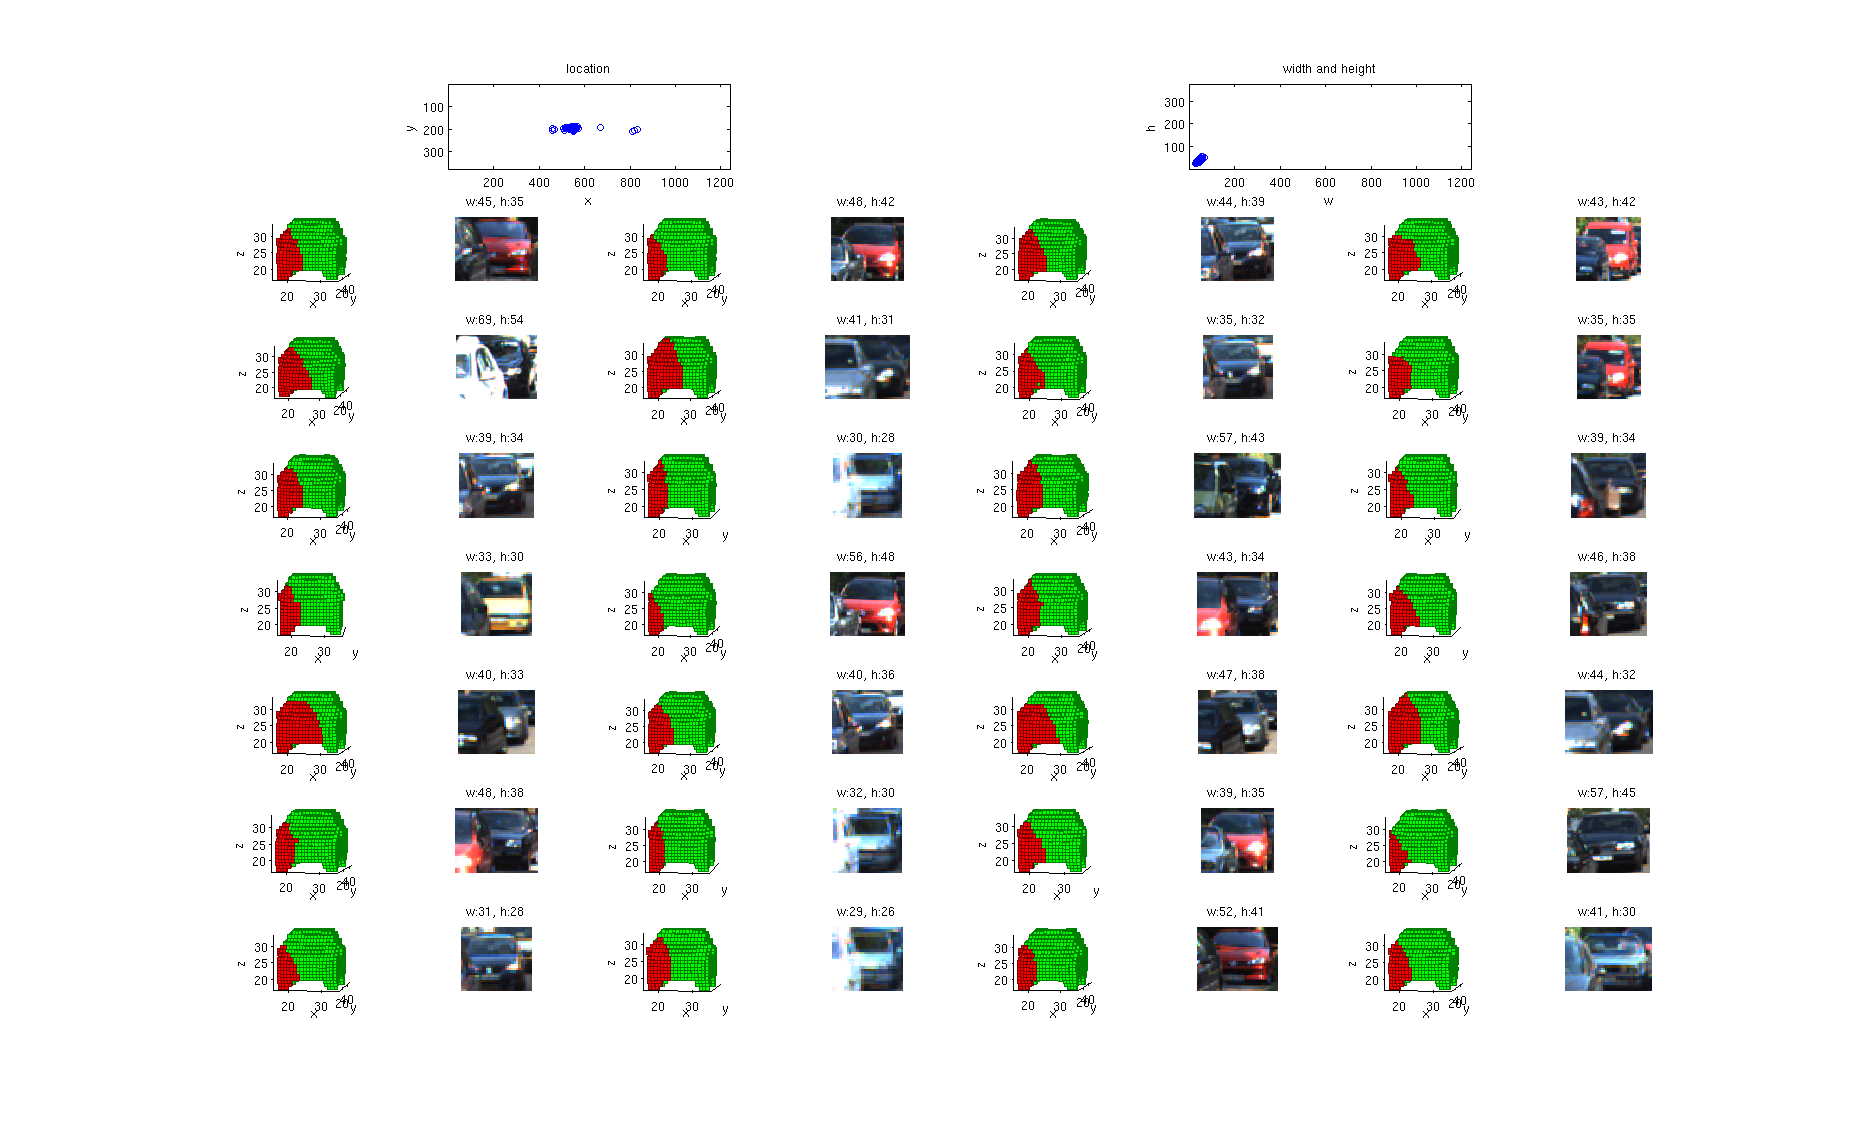
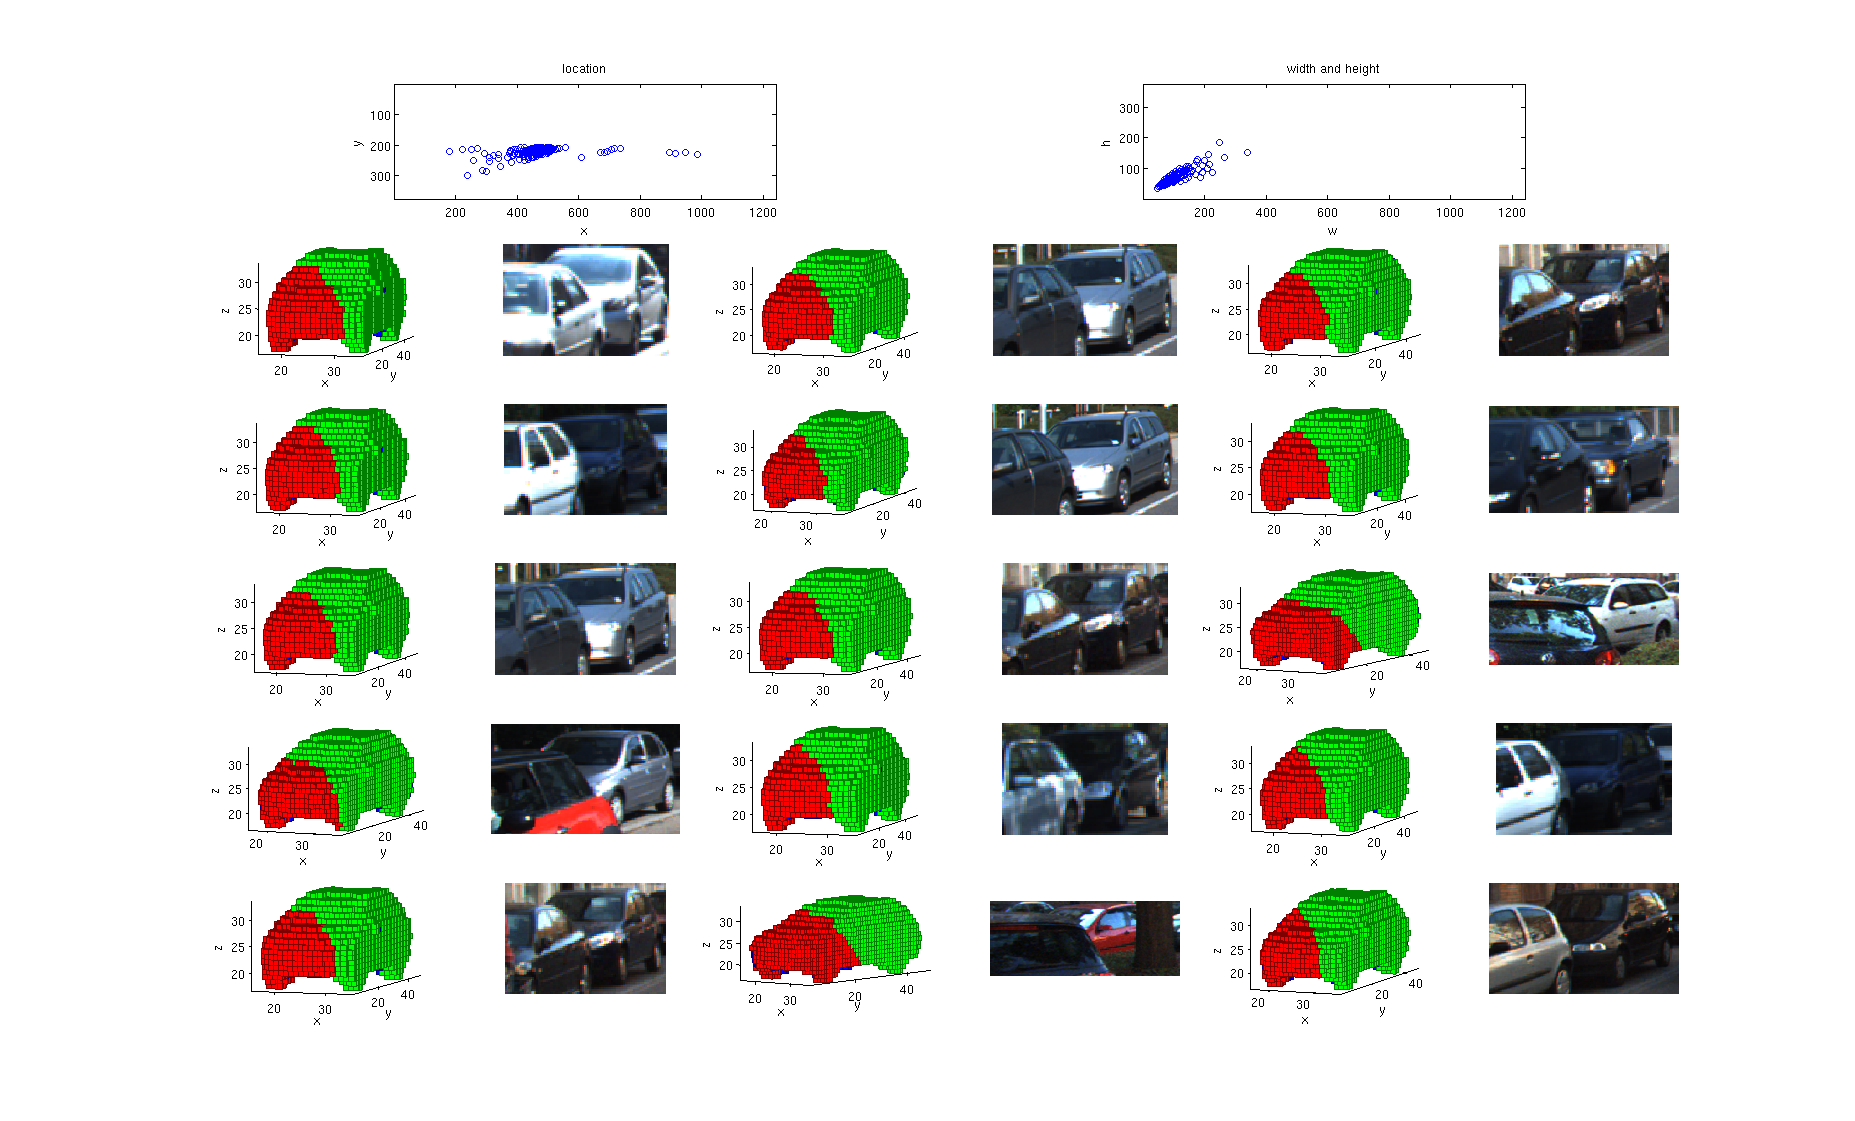
some new figures

Changed region(s): [[0.1229, 0.4996, 0.9218, 0.9054], [0.5224, 0.1249, 0.9218, 0.4683], [0.1229, 0.1249, 0.4916, 0.4683]]

diff --git a/ACF/exemplar_display_result_kitti_bbox.m b/ACF/exemplar_display_result_kitti_bbox.m
@@ -1,0 +1,174 @@
+function exemplar_display_result_kitti_bbox
+
+cls = 'car';
+threshold = -20;
+is_save = 0;
+threshold_overlap = 0.6;
+is_train = 0;
+result_dir = 'kitti_test_acf_3d_227_flip';
+name = '3d_ap_227_combined';
+% is_train = 1;
+% result_dir = 'kitti_train_ap_125';
+% name = '3d_aps_125_combined';
+
+% read detection results
+filename = sprintf('%s/%s_%s_test.mat', result_dir, cls, name);
+object = load(filename);
+dets = object.dets;
+fprintf('load detection done\n');
+
+% read ids of validation images
+object = load('kitti_ids_new.mat');
+if is_train
+    ids = object.ids_val;
+else
+    ids = object.ids_test;
+end
+N = numel(ids);
+
+% KITTI path
+exemplar_globals;
+root_dir = KITTIroot;
+if is_train
+    data_set = 'training';
+else
+    data_set = 'testing';
+end
+cam = 2;
+image_dir = fullfile(root_dir, [data_set '/image_' num2str(cam)]);
+label_dir = fullfile(root_dir, [data_set '/label_' num2str(cam)]);
+
+% load data
+if is_train
+    filename = fullfile(SLMroot, 'KITTI/data.mat');
+else
+    filename = fullfile(SLMroot, 'KITTI/data_kitti.mat');
+end
+object = load(filename);
+data = object.data;
+
+figure;
+for i = 322:N
+    img_idx = ids(i);
+    disp(img_idx);
+    
+    % read ground truth bounding box
+    if is_train
+        objects = readLabels(label_dir, img_idx);
+        clsinds = strmatch(cls, lower({objects(:).type}), 'exact');
+        n = numel(clsinds);
+        bbox_gt = zeros(n, 4); 
+        for j = 1:n
+            bbox_gt(j,:) = [objects(clsinds(j)).x1 objects(clsinds(j)).y1 ...
+                objects(clsinds(j)).x2 objects(clsinds(j)).y2];     
+        end
+        flags_gt = zeros(n, 1);
+    end
+    
+    % get predicted bounding box
+    det = dets{i};
+    if isempty(det) == 1
+        fprintf('no detection for image %d\n', img_idx);
+        continue;
+    end
+    if max(det(:,6)) < threshold
+        fprintf('maximum score %.2f is smaller than threshold\n', max(det(:,6)));
+        continue;
+    end
+    if isempty(det) == 0
+        I = nms_new(det, threshold_overlap);
+        det = det(I, :);    
+    end
+    num = size(det, 1);
+    
+    % for each predicted bounding box
+    if is_train
+        flags_pr = zeros(num, 1);
+        for j = 1:num
+            bbox_pr = det(j, 1:4);  
+
+            % compute box overlap
+            if isempty(bbox_gt) == 0
+                o = boxoverlap(bbox_gt, bbox_pr);
+                [maxo, index] = max(o);
+                if maxo >= 0.7 && flags_gt(index) == 0
+                    flags_pr(j) = 1;
+                    flags_gt(index) = 1;
+                end
+            end
+        end
+    end
+    
+    file_img = sprintf('%s/%06d.png', image_dir, img_idx);
+    I = imread(file_img);
+    
+    % show all the detections
+%     figure(1);
+%     imshow(I);
+%     hold on;
+%     
+%     for k = 1:size(dets{i},1)
+%         bbox_pr = dets{i}(k,1:4);
+%         bbox_draw = [bbox_pr(1), bbox_pr(2), bbox_pr(3)-bbox_pr(1), bbox_pr(4)-bbox_pr(2)];
+%         rectangle('Position', bbox_draw, 'EdgeColor', 'g', 'LineWidth', 2);
+%     end
+%     hold off;
+    
+    imshow(I);
+    hold on;
+    for k = 1:num
+        if det(k,6) > threshold
+            % get predicted bounding box
+            bbox_pr = det(k,1:4);
+            bbox_draw = [bbox_pr(1), bbox_pr(2), bbox_pr(3)-bbox_pr(1), bbox_pr(4)-bbox_pr(2)];
+            if is_train
+                if flags_pr(k)
+                    rectangle('Position', bbox_draw, 'EdgeColor', 'g', 'LineWidth', 2);
+                else
+                    rectangle('Position', bbox_draw, 'EdgeColor', 'r', 'LineWidth', 2);
+                end
+            else
+                rectangle('Position', bbox_draw, 'EdgeColor', 'g', 'LineWidth', 2);
+            end
+%             s = sprintf('%.2f', det(k,6));
+%             text(bbox_pr(1), bbox_pr(2), s, 'FontSize', 4, 'BackgroundColor', 'c');
+        end
+    end
+    
+    if is_train
+        for k = 1:n
+            if flags_gt(k) == 0
+                bbox = bbox_gt(k,1:4);
+                bbox_draw = [bbox(1), bbox(2), bbox(3)-bbox(1), bbox(4)-bbox(2)];
+                rectangle('Position', bbox_draw, 'EdgeColor', 'y', 'LineWidth', 2);
+            end
+        end
+    end
+    hold off;
+    
+    if is_save
+        filename = fullfile('result_images', sprintf('%06d.png', img_idx));
+        saveas(hf, filename);
+    else
+        pause;
+    end
+end
+
+
+function im = create_occlusion_image(pattern)
+
+% 2D occlusion mask
+im = 255*ones(size(pattern,1), size(pattern,2), 3);
+color = [0 0 255];
+for j = 1:3
+    tmp = im(:,:,j);
+    tmp(pattern == 2) = color(j);
+    im(:,:,j) = tmp;
+end
+color = [0 255 255];
+for j = 1:3
+    tmp = im(:,:,j);
+    tmp(pattern == 3) = color(j);
+    im(:,:,j) = tmp;
+end
+im = uint8(im);  

diff --git a/KITTI/show_cluster_patterns.m b/KITTI/show_cluster_patterns.m
@@ -1,5 +1,7 @@
 function show_cluster_patterns(cid)
 
+is_save = 0;
+
 opt = globals;
 
 % get image directory
@@ -33,9 +35,10 @@ N = numel(centers);
 % [~, ind] = sort(azimuth);
 % centers = centers(ind);
 
-figure;
-nplot = 8;
-mplot = 8;
+% hf = figure('units','normalized','outerposition',[0 0 0.5 1]);
+hf = figure;
+nplot = 5;
+mplot = 6;
 for i = 1:N
     disp(i);
     ind = centers(i);
@@ -88,8 +91,8 @@ for i = 1:N
     subplot(nplot, mplot, ind_plot);
     ind_plot = ind_plot + 1;
     imshow(I1);
-    til = sprintf('w:%d, h:%d', size(I1,2), size(I1,1));
-    title(til);
+%     til = sprintf('w:%d, h:%d', size(I1,2), size(I1,1));
+%     title(til);
     
     % show several members
     member = find(idx == ind);
@@ -118,13 +121,18 @@ for i = 1:N
         subplot(nplot, mplot, ind_plot);
         ind_plot = ind_plot + 1;
         imshow(I1);
-        til = sprintf('w:%d, h:%d', size(I1,2), size(I1,1));
-        title(til);        
+%         til = sprintf('w:%d, h:%d', size(I1,2), size(I1,1));
+%         title(til);        
     end
     for j = ind_plot:nplot*mplot
         subplot(nplot, mplot, j);
         cla;
         title('');
     end
-    pause;
+    if is_save
+        filename = sprintf('Clusters/%03d.png', i);
+        saveas(hf, filename);
+    else
+        pause;
+    end
 end

diff --git a/KITTI/show_exemplar_dpms.m b/KITTI/show_exemplar_dpms.m
@@ -14,7 +14,7 @@ cad = object.(cls);
 index = cad.grid == 1;
 
 % cluster centers
-files = dir('../Exemplar_DPM/kitti_train/*final*');
+files = dir('../Exemplar_DPM/kitti_train_ap_125/*final*');
 N = numel(files);
 centers = zeros(1, N);
 for i = 1:N
@@ -41,11 +41,11 @@ for i = 1:N
     ind_plot = ind_plot + 1;
     draw_cad(cad, visibility_grid);
     view(data.azimuth(ind), data.elevation(ind));
-    til = sprintf('%d: trunc %.2f', ind, data.truncation(ind));
-    title(til);
+%     til = sprintf('%d: trunc %.2f', ind, data.truncation(ind));
+%     title(til);
     
     % show exemplar DPM
-    filename = sprintf('../Exemplar_DPM/kitti_train/%s_%d_final.mat', cls, ind);
+    filename = sprintf('../Exemplar_DPM/kitti_train_ap_125/%s_%d_final.mat', cls, ind);
     if exist(filename, 'file')
         object = load(filename);
         model = object.model;

diff --git a/KITTI/show_annotations.m b/KITTI/show_annotations.m
@@ -53,7 +53,7 @@ for img_idx = 1:nimages-1
     obj_idx = index(i);
     % plot 2D bounding box
     object = objects(obj_idx);
-    draw_2d_box(object);
+%     draw_2d_box(object);
     
     if strcmp(object.type, 'Car') == 1
         cad_index = find_closest_cad(cads, object);
@@ -96,9 +96,9 @@ for img_idx = 1:nimages-1
   axis off;  
   axis equal;
   
-  if isempty(V) == 0
-      pause(1);
-      render_cad_model(V, F);
-  end
+%   if isempty(V) == 0
+%       pause(1);
+%       render_cad_model(V, F);
+%   end
   pause;
 end

diff --git a/ACF/exemplar_display_result_kitti.m b/ACF/exemplar_display_result_kitti.m
@@ -4,12 +4,12 @@ cls = 'car';
 threshold = -20;
 is_save = 0;
 threshold_overlap = 0.6;
-% is_train = 0;
-% result_dir = 'kitti_test_acf_3d_227_flip';
-% name = '3d_ap_227_combined';
-is_train = 1;
-result_dir = 'kitti_train_ap_125';
-name = '3d_aps_125_combined';
+is_train = 0;
+result_dir = 'kitti_test_acf_3d_227_flip';
+name = '3d_ap_227_combined';
+% is_train = 1;
+% result_dir = 'kitti_train_ap_125';
+% name = '3d_aps_125_combined';
 
 % read detection results
 filename = sprintf('%s/%s_%s_test.mat', result_dir, cls, name);

diff --git a/KITTI/show_occlusion_patterns.m b/KITTI/show_occlusion_patterns.m
@@ -34,7 +34,7 @@ for i = 1:N
     
     for j = 1:numel(objects)
         object = objects(j);
-        if strcmp(object.type, 'Car') == 1 && object.occ_per > 0.1 && object.trunc_per > 0.1
+        if strcmp(object.type, 'Car') == 1 && object.occ_per > 0.1 % object.occ_per > 0.1 &&
             
             % show the image patch
             filename = sprintf('%s/%06d.png',image_dir, i - 1);

diff --git a/KITTI/show_cluster_centers.m b/KITTI/show_cluster_centers.m
@@ -38,7 +38,7 @@ for i = 1:N
     view(data.azimuth(ind), data.elevation(ind));
     num = numel(find(idx == ind));
     til = sprintf('%d: trunc %.2f, %d examples', ind, data.truncation(ind), num);
-    title(til);
+%     title(til);
     
     % show exemplar DPM
 %     filename = sprintf('../Exemplar_DPM/kitti_train/%s_%d_final.mat', cls, ind);

diff --git a/ACF/exemplar_globals.m b/ACF/exemplar_globals.m
@@ -1,6 +1,6 @@
 % Set up global variables used throughout the code
 
-is_hadoop = 1;
+is_hadoop = 0;
 
 % directory for caching models, intermediate data, and results
 if is_hadoop
